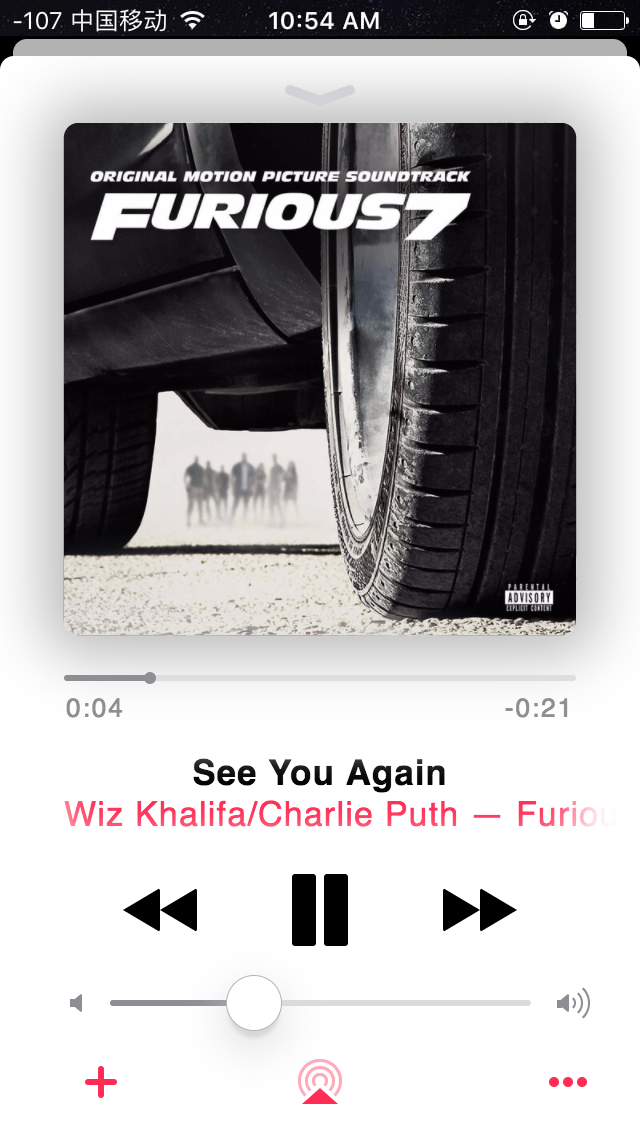
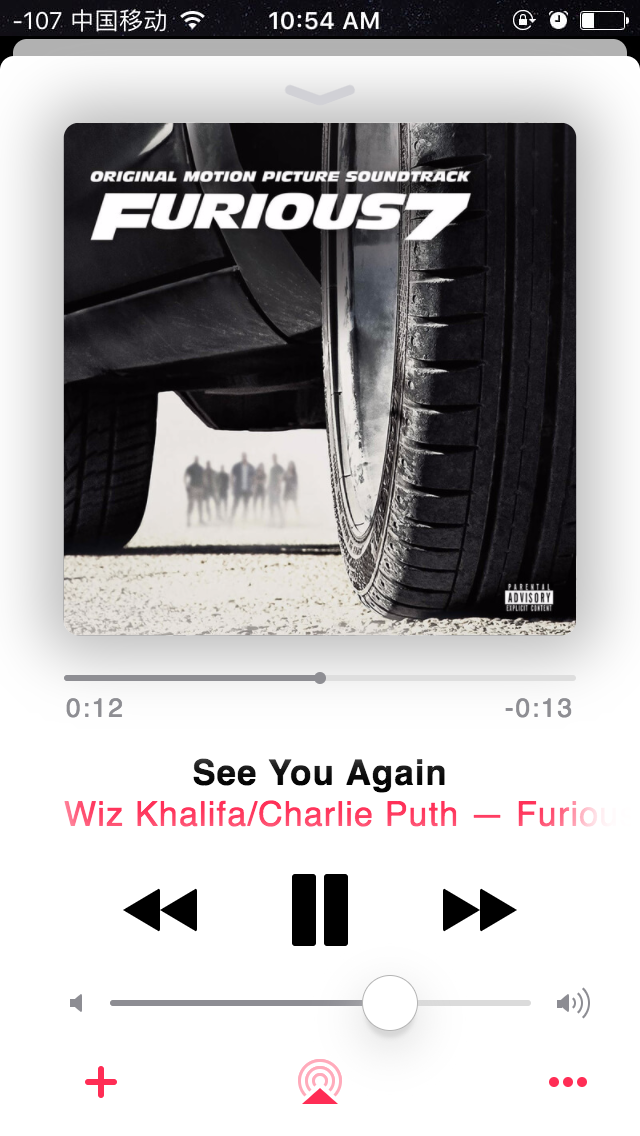
prevent music end time is not int, timeline remove transition

diff --git a/css/main.css b/css/main.css
@@ -1,2 +1,2 @@
-*{margin:0;padding:0;-moz-box-sizing:border-box;-webkit-box-sizing:border-box;box-sizing:border-box;-webkit-tap-highlight-color:transparent;tap-highlight-color:transparent;-moz-user-select:-moz-none;-ms-user-select:none;-webkit-user-select:none;user-select:none}ul{list-style:none}html,body,.apple-music,.show,.timeline .line .played,.info:after,.controls .up,.controls .down,.volumes .progress{width:100%;height:100%}.clearfix:after{content:'';display:table;width:0;height:0;clear:both}html,body{background:#000;overflow:hidden;font-family:Helvetica}.apple-music{text-align:center}.status{width:100%;height:39px;background:url("../img/status.jpg") 50% 0 no-repeat}.under{width:100%;height:17px}.under .inner{display:inline-block;width:614px;height:100%;background:#b1b1b1;border-radius:14px 14px 0 0}.show{background:#FFF;border-radius:14px 14px 0 0;padding-top:29px}.show .arr-down{width:74px;height:22px;margin:0 auto;position:relative;z-index:2}.show .arr-down:before,.show .arr-down:after{content:'';display:inline-block;width:40px;height:10px;border-radius:10px;background:#d1d1d6;position:absolute;bottom:0;-moz-transition:all .2s ease;-o-transition:all .2s ease;-webkit-transition:all .2s ease;transition:all .2s ease}.show .arr-down:before{left:0;-moz-transform-origin:100% 50%;-ms-transform-origin:100% 50%;-webkit-transform-origin:100% 50%;transform-origin:100% 50%;-moz-transform:rotate3d(0, 0, 1, 20deg);-webkit-transform:rotate3d(0, 0, 1, 20deg);transform:rotate3d(0, 0, 1, 20deg)}.show .arr-down:after{right:0;-moz-transform-origin:0 50%;-ms-transform-origin:0 50%;-webkit-transform-origin:0 50%;transform-origin:0 50%;-moz-transform:rotate3d(0, 0, 1, -20deg);-webkit-transform:rotate3d(0, 0, 1, -20deg);transform:rotate3d(0, 0, 1, -20deg)}.show .arr-ping:before{-moz-transform:rotate3d(0, 0, 0, 0);-webkit-transform:rotate3d(0, 0, 0, 0);transform:rotate3d(0, 0, 0, 0)}.show .arr-ping:after{-moz-transform:rotate3d(0, 0, 0, 0);-webkit-transform:rotate3d(0, 0, 0, 0);transform:rotate3d(0, 0, 0, 0)}.album{width:410px;height:410px;margin:67px auto 0;background:url("../img/album.jpg") 50% 50% no-repeat;background-size:100% 100%;-moz-transform-origin:50% 50%;-ms-transform-origin:50% 50%;-webkit-transform-origin:50% 50%;transform-origin:50% 50%;will-change:transform;border-radius:12px;-moz-transform:scale(1, 1);-ms-transform:scale(1, 1);-webkit-transform:scale(1, 1);transform:scale(1, 1);-moz-transition:all .4s ease;-o-transition:all .4s ease;-webkit-transition:all .4s ease;transition:all .4s ease}.album-big{-moz-transform:scale(1.25, 1.25);-ms-transform:scale(1.25, 1.25);-webkit-transform:scale(1.25, 1.25);transform:scale(1.25, 1.25);-moz-transition:all .7s cubic-bezier(0.18, 0.89, 0.32, 1.28);-o-transition:all .7s cubic-bezier(0.18, 0.89, 0.32, 1.28);-webkit-transition:all .7s cubic-bezier(0.18, 0.89, 0.32, 1.28);transition:all .7s cubic-bezier(0.18, 0.89, 0.32, 1.28);-moz-box-shadow:0 0 80px 16px #b9b9b9;-webkit-box-shadow:0 0 80px 16px #b9b9b9;box-shadow:0 0 80px 16px #b9b9b9}.album-pause-up{-moz-transform:translate3d(0, -30px, 0);-webkit-transform:translate3d(0, -30px, 0);transform:translate3d(0, -30px, 0);-moz-transition:all .4s ease;-o-transition:all .4s ease;-webkit-transition:all .4s ease;transition:all .4s ease}.album-play-up{-moz-transform:scale(1.07) translate3d(0, -30px, 0);-ms-transform:scale(1.07) translate3d(0, -30px, 0);-webkit-transform:scale(1.07) translate3d(0, -30px, 0);transform:scale(1.07) translate3d(0, -30px, 0);-moz-transition:all .4s ease;-o-transition:all .4s ease;-webkit-transition:all .4s ease;transition:all .4s ease}.timeline{width:512px;height:auto;margin:91px auto 0;z-index:2}.timeline .line{width:100%;height:6px;background-color:#dedede;border-radius:6px;position:relative}.timeline .line .played{position:absolute;top:0;left:0;background-color:#8e8e93;border-radius:6px;width:0;-moz-transition:all .3s ease;-o-transition:all .3s ease;-webkit-transition:all .3s ease;transition:all .3s ease}.timeline .line .played-color{background-color:#ff2d55}.timeline .line .indicator{display:inline-block;width:12px;height:12px;background-color:#8e8e93;position:absolute;top:-3px;left:0;border-radius:50%;-moz-transform-origin:50% 50%;-ms-transform-origin:50% 50%;-webkit-transform-origin:50% 50%;transform-origin:50% 50%;-moz-transition:all .3s ease;-o-transition:all .3s ease;-webkit-transition:all .3s ease;transition:all .3s ease;border:1px solid transparent}.timeline .line .indicator-big{background-color:#ff2d55;-moz-transition:all .4s cubic-bezier(0.18, 0.89, 0.32, 1.28);-o-transition:all .4s cubic-bezier(0.18, 0.89, 0.32, 1.28);-webkit-transition:all .4s cubic-bezier(0.18, 0.89, 0.32, 1.28);transition:all .4s cubic-bezier(0.18, 0.89, 0.32, 1.28);-moz-transform:scale(4.66667, 4.66667);-ms-transform:scale(4.66667, 4.66667);-webkit-transform:scale(4.66667, 4.66667);transform:scale(4.66667, 4.66667);border-color:#FFF}.timeline .time{width:100%;height:30px;position:relative;margin-top:12px}.timeline .time span{position:absolute;top:0;height:30px;color:#8e8e93;letter-spacing:2px;font-size:26px;-moz-transition:all .3s ease;-o-transition:all .3s ease;-webkit-transition:all .3s ease;transition:all .3s ease}.timeline .time .play{left:2px;width:60px;text-align:left}.timeline .time .rest{right:2px;width:70px;text-align:right}.timeline .time .play-down,.timeline .time .rest-down{-moz-transform:translate3d(0, 16px, 0);-webkit-transform:translate3d(0, 16px, 0);transform:translate3d(0, 16px, 0);color:#ff2d55}.timeline .time .play-color,.timeline .time .rest-color{color:#ff2d55}.info{margin:30px auto 0;position:relative}.info:after{content:'';display:block;position:absolute;height:113px;top:-16px;left:0;-moz-box-shadow:#fff -64px 0 64px 0 inset,#fff 60px 0 64px 0 inset;-webkit-box-shadow:#fff -64px 0 64px 0 inset,#fff 60px 0 64px 0 inset;box-shadow:#fff -64px 0 64px 0 inset,#fff 60px 0 64px 0 inset}.info .name{font-size:35px;font-weight:600;letter-spacing:1px}.info .scroller{padding:0 64px}.info .desc{font-size:34px;font-weight:400;color:#ff2d55;letter-spacing:1.2px;margin-top:2px;white-space:nowrap;will-change:transform}.controls{width:394px;height:72px;margin:40px auto 0;position:relative}.controls span{display:inline-block;-moz-transform-origin:50% 50%;-ms-transform-origin:50% 50%;-webkit-transform-origin:50% 50%;transform-origin:50% 50%}.controls .up{position:relative;z-index:2}.controls .pp{position:relative;width:64px;height:72px}.controls .pp:before,.controls .pp:after{content:'';display:inline-block;position:absolute;top:0;left:9px;border-radius:3px;border-top:36px solid transparent;border-right:64px solid transparent;border-bottom:36px solid transparent;border-left:64px solid #000}.controls .pp-play{width:56px}.controls .pp-play:before,.controls .pp-play:after{left:0;border:0;width:24px;height:72px;background:#000}.controls .pp-play:after{left:32px}.controls .prev,.controls .next{position:absolute;top:14px;width:74px;height:44px}.controls .prev:before,.controls .prev:after,.controls .next:before,.controls .next:after{content:'';display:inline-block;position:absolute;top:0;border-radius:3px;border-top:22px solid transparent;border-right:37px solid transparent;border-bottom:22px solid transparent;border-left:37px solid transparent}.controls .prev{left:0}.controls .prev:before,.controls .prev:after{border-right-color:#000}.controls .prev:before{left:-37px}.controls .prev:after{left:0}.controls .next{right:0}.controls .next:before,.controls .next:after{border-left-color:#000}.controls .next:after{right:0}.controls .down{position:absolute;top:0;left:0;z-index:1}.controls .down span{background:#e5e5e5;border-radius:50%;width:120px;height:120px;opacity:0;-moz-transition:all .3s ease;-o-transition:all .3s ease;-webkit-transition:all .3s ease;transition:all .3s ease}.controls .prev-bg,.controls .next-bg{position:absolute;top:-24px}.controls .prev-bg{left:-18px}.controls .pp-bg{position:relative;top:-24px}.controls .next-bg{right:-18px}.volumes{width:421px;height:6px;background:#dbdbdb;margin:54px auto 0;border-radius:6px;position:relative}.volumes .progress{position:absolute;top:0;left:0;background:#8d8d93;border-radius:6px;width:210.5px}.volumes .v-indicator{display:inline-block;width:56px;height:56px;background:#fff;border-radius:50%;position:absolute;top:-25px;left:182.5px;border:1px solid #b4b4b4;-moz-box-shadow:#d7d7d7 0 10px 6px -3px,#d7d7d7 0 16px 80px 0;-webkit-box-shadow:#d7d7d7 0 10px 6px -3px,#d7d7d7 0 16px 80px 0;box-shadow:#d7d7d7 0 10px 6px -3px,#d7d7d7 0 16px 80px 0}.volumes .v-low,.volumes .v-high{display:inline-block;position:absolute}.volumes .v-low:before,.volumes .v-low:after,.volumes .v-high:before,.volumes .v-high:after{content:'';display:inline-block;position:absolute;left:0;z-index:2}.volumes .v-low:before,.volumes .v-high:before{width:5px;height:8px;background:#8d8d93}.volumes .v-low:after,.volumes .v-high:after{border-top:10px solid transparent;border-right:12px solid #8d8d93;border-bottom:10px solid transparent;border-left:12px solid transparent;border-radius:3px;left:-12px}.volumes .v-low{width:14px;height:20px;left:-40px;top:-7px}.volumes .v-low:before{top:6px}.volumes .v-high{width:33px;height:28px;right:-59px;top:-11px}.volumes .v-high:before{top:11px}.volumes .v-high:after{top:4px}.volumes .v-high i{position:absolute}.volumes .v-high i:before,.volumes .v-high i:after{content:'';width:0;height:0;display:inline-block;position:absolute;border-radius:50%}.volumes .v-high i.wave1{width:44px;height:44px;top:-8px;right:0px}.volumes .v-high i.wave1:before{border:22px solid transparent;border-right-color:#8d8d93;top:0;left:0}.volumes .v-high i.wave1:after{border:19px solid #FFF;top:3px;right:2px}.volumes .v-high i.wave2{width:30px;height:30px;top:-1px;right:7px}.volumes .v-high i.wave2:before{border:15px solid transparent;border-right-color:#8d8d93;top:0;left:0}.volumes .v-high i.wave2:after{border:12px solid #FFF;top:3px;right:2px}.volumes .v-high i.wave3{width:16px;height:16px;top:6px;right:14px}.volumes .v-high i.wave3:before{border:8px solid transparent;border-right-color:#8d8d93;top:0;left:0}.volumes .v-high i.wave3:after{border:5px solid #FFF;top:3px;right:2px}.speaker{width:44px;height:45px;margin:53px auto 0;position:relative}.speaker:after{content:'';width:0;height:0;border-top:16px solid transparent;border-right:18px solid transparent;border-bottom:16px solid #ff2d55;border-left:18px solid transparent;position:absolute;bottom:0;left:4px}.speaker span{position:absolute}.speaker span:before,.speaker span:after{content:'';width:0;height:0;display:inline-block;position:absolute;border-radius:50%}.speaker span.wave1{width:44px;height:44px;top:0px;left:0px}.speaker span.wave1:before{border:22px solid #ffabbb;border-bottom-color:transparent;top:0;left:0}.speaker span.wave1:after{border:19px solid #FFF;top:3px;left:3px}.speaker span.wave2{width:30px;height:30px;top:7px;left:7px}.speaker span.wave2:before{border:15px solid #ffabbb;border-bottom-color:transparent;top:0;left:0}.speaker span.wave2:after{border:12px solid #FFF;top:3px;left:3px}.speaker span.wave3{width:16px;height:16px;top:14px;left:14px}.speaker span.wave3:before{border:8px solid #ffabbb;border-bottom-color:transparent;top:0;left:0}.speaker span.wave3:after{border:5px solid #FFF;top:3px;left:3px}.options{width:534px;height:10px;margin:0 auto;position:relative;top:-27px;padding-left:32px}.options li{display:inline-block}.options .dots{width:10px;height:10px;background:#ff2d55;border-radius:50%;position:relative;float:right;margin-left:4px}.options .add{float:left;width:32px;height:6px;margin-top:2px;border-radius:6px;background-color:#ff2d55;position:relative}.options .add:after{content:'';display:inline-block;width:6px;height:32px;border-radius:6px;background-color:inherit;position:absolute;top:-13px;left:13px}.bg-show-hide{-moz-animation:"bg-show-hide" 0.6s ease;-webkit-animation:"bg-show-hide" 0.6s ease;animation:"bg-show-hide" 0.6s ease}@-moz-keyframes bg-show-hide{0%{opacity:1}100%{opacity:0}}@-webkit-keyframes bg-show-hide{0%{opacity:1}100%{opacity:0}}@keyframes bg-show-hide{0%{opacity:1}100%{opacity:0}}.down-up{-moz-animation:"down-up" 0.6s ease;-webkit-animation:"down-up" 0.6s ease;animation:"down-up" 0.6s ease}@-moz-keyframes down-up{0%{-moz-transform:scale(.88, .88);transform:scale(.88, .88)}100%{-moz-transform:scale(1, 1);transform:scale(1, 1)}}@-webkit-keyframes down-up{0%{-webkit-transform:scale(.88, .88);transform:scale(.88, .88)}100%{-webkit-transform:scale(1, 1);transform:scale(1, 1)}}@keyframes down-up{0%{-moz-transform:scale(.88, .88);-ms-transform:scale(.88, .88);-webkit-transform:scale(.88, .88);transform:scale(.88, .88)}100%{-moz-transform:scale(1, 1);-ms-transform:scale(1, 1);-webkit-transform:scale(1, 1);transform:scale(1, 1)}}
+*{margin:0;padding:0;-moz-box-sizing:border-box;-webkit-box-sizing:border-box;box-sizing:border-box;-webkit-tap-highlight-color:transparent;tap-highlight-color:transparent;-moz-user-select:-moz-none;-ms-user-select:none;-webkit-user-select:none;user-select:none}ul{list-style:none}html,body,.apple-music,.show,.timeline .line .played,.info:after,.controls .up,.controls .down,.volumes .progress{width:100%;height:100%}.clearfix:after{content:'';display:table;width:0;height:0;clear:both}html,body{background:#000;overflow:hidden;font-family:Helvetica}.apple-music{text-align:center}.status{width:100%;height:39px;background:url("../img/status.jpg") 50% 0 no-repeat}.under{width:100%;height:17px}.under .inner{display:inline-block;width:614px;height:100%;background:#b1b1b1;border-radius:14px 14px 0 0}.show{background:#FFF;border-radius:14px 14px 0 0;padding-top:29px}.show .arr-down{width:74px;height:22px;margin:0 auto;position:relative;z-index:2}.show .arr-down:before,.show .arr-down:after{content:'';display:inline-block;width:40px;height:10px;border-radius:10px;background:#d1d1d6;position:absolute;bottom:0;-moz-transition:all .2s ease;-o-transition:all .2s ease;-webkit-transition:all .2s ease;transition:all .2s ease}.show .arr-down:before{left:0;-moz-transform-origin:100% 50%;-ms-transform-origin:100% 50%;-webkit-transform-origin:100% 50%;transform-origin:100% 50%;-moz-transform:rotate3d(0, 0, 1, 20deg);-webkit-transform:rotate3d(0, 0, 1, 20deg);transform:rotate3d(0, 0, 1, 20deg)}.show .arr-down:after{right:0;-moz-transform-origin:0 50%;-ms-transform-origin:0 50%;-webkit-transform-origin:0 50%;transform-origin:0 50%;-moz-transform:rotate3d(0, 0, 1, -20deg);-webkit-transform:rotate3d(0, 0, 1, -20deg);transform:rotate3d(0, 0, 1, -20deg)}.show .arr-ping:before{-moz-transform:rotate3d(0, 0, 0, 0);-webkit-transform:rotate3d(0, 0, 0, 0);transform:rotate3d(0, 0, 0, 0)}.show .arr-ping:after{-moz-transform:rotate3d(0, 0, 0, 0);-webkit-transform:rotate3d(0, 0, 0, 0);transform:rotate3d(0, 0, 0, 0)}.album{width:410px;height:410px;margin:67px auto 0;background:url("../img/album.jpg") 50% 50% no-repeat;background-size:100% 100%;-moz-transform-origin:50% 50%;-ms-transform-origin:50% 50%;-webkit-transform-origin:50% 50%;transform-origin:50% 50%;will-change:transform;border-radius:12px;-moz-transform:scale(1, 1);-ms-transform:scale(1, 1);-webkit-transform:scale(1, 1);transform:scale(1, 1);-moz-transition:all .4s ease;-o-transition:all .4s ease;-webkit-transition:all .4s ease;transition:all .4s ease}.album-big{-moz-transform:scale(1.25, 1.25);-ms-transform:scale(1.25, 1.25);-webkit-transform:scale(1.25, 1.25);transform:scale(1.25, 1.25);-moz-transition:all .7s cubic-bezier(0.18, 0.89, 0.32, 1.28);-o-transition:all .7s cubic-bezier(0.18, 0.89, 0.32, 1.28);-webkit-transition:all .7s cubic-bezier(0.18, 0.89, 0.32, 1.28);transition:all .7s cubic-bezier(0.18, 0.89, 0.32, 1.28);-moz-box-shadow:0 0 80px 16px #b9b9b9;-webkit-box-shadow:0 0 80px 16px #b9b9b9;box-shadow:0 0 80px 16px #b9b9b9}.album-pause-up{-moz-transform:translate3d(0, -30px, 0);-webkit-transform:translate3d(0, -30px, 0);transform:translate3d(0, -30px, 0);-moz-transition:all .4s ease;-o-transition:all .4s ease;-webkit-transition:all .4s ease;transition:all .4s ease}.album-play-up{-moz-transform:scale(1.07) translate3d(0, -30px, 0);-ms-transform:scale(1.07) translate3d(0, -30px, 0);-webkit-transform:scale(1.07) translate3d(0, -30px, 0);transform:scale(1.07) translate3d(0, -30px, 0);-moz-transition:all .4s ease;-o-transition:all .4s ease;-webkit-transition:all .4s ease;transition:all .4s ease}.timeline{width:512px;height:auto;margin:91px auto 0;z-index:2}.timeline .line{width:100%;height:6px;background-color:#dedede;border-radius:6px;position:relative}.timeline .line .played{position:absolute;top:0;left:0;background-color:#8e8e93;border-radius:6px;width:0}.timeline .line .played-color{background-color:#ff2d55}.timeline .line .indicator{display:inline-block;width:12px;height:12px;background-color:#8e8e93;position:absolute;top:-3px;left:0;border-radius:50%;-moz-transform-origin:50% 50%;-ms-transform-origin:50% 50%;-webkit-transform-origin:50% 50%;transform-origin:50% 50%;border:1px solid transparent}.timeline .line .indicator-big{background-color:#ff2d55;-moz-transition:all .4s cubic-bezier(0.18, 0.89, 0.32, 1.28);-o-transition:all .4s cubic-bezier(0.18, 0.89, 0.32, 1.28);-webkit-transition:all .4s cubic-bezier(0.18, 0.89, 0.32, 1.28);transition:all .4s cubic-bezier(0.18, 0.89, 0.32, 1.28);-moz-transform:scale(4.66667, 4.66667);-ms-transform:scale(4.66667, 4.66667);-webkit-transform:scale(4.66667, 4.66667);transform:scale(4.66667, 4.66667);border-color:#FFF}.timeline .time{width:100%;height:30px;position:relative;margin-top:12px}.timeline .time span{position:absolute;top:0;height:30px;color:#8e8e93;letter-spacing:2px;font-size:26px;-moz-transition:all .3s ease;-o-transition:all .3s ease;-webkit-transition:all .3s ease;transition:all .3s ease}.timeline .time .play{left:2px;width:60px;text-align:left}.timeline .time .rest{right:2px;width:70px;text-align:right}.timeline .time .play-down,.timeline .time .rest-down{-moz-transform:translate3d(0, 16px, 0);-webkit-transform:translate3d(0, 16px, 0);transform:translate3d(0, 16px, 0);color:#ff2d55}.timeline .time .play-color,.timeline .time .rest-color{color:#ff2d55}.info{margin:30px auto 0;position:relative}.info:after{content:'';display:block;position:absolute;height:113px;top:-16px;left:0;-moz-box-shadow:#fff -64px 0 64px 0 inset,#fff 60px 0 64px 0 inset;-webkit-box-shadow:#fff -64px 0 64px 0 inset,#fff 60px 0 64px 0 inset;box-shadow:#fff -64px 0 64px 0 inset,#fff 60px 0 64px 0 inset}.info .name{font-size:35px;font-weight:600;letter-spacing:1px}.info .scroller{padding:0 64px}.info .desc{font-size:34px;font-weight:400;color:#ff2d55;letter-spacing:1.2px;margin-top:2px;white-space:nowrap;will-change:transform}.controls{width:394px;height:72px;margin:40px auto 0;position:relative}.controls span{display:inline-block;-moz-transform-origin:50% 50%;-ms-transform-origin:50% 50%;-webkit-transform-origin:50% 50%;transform-origin:50% 50%}.controls .up{position:relative;z-index:2}.controls .pp{position:relative;width:64px;height:72px}.controls .pp:before,.controls .pp:after{content:'';display:inline-block;position:absolute;top:0;left:9px;border-radius:3px;border-top:36px solid transparent;border-right:64px solid transparent;border-bottom:36px solid transparent;border-left:64px solid #000}.controls .pp-play{width:56px}.controls .pp-play:before,.controls .pp-play:after{left:0;border:0;width:24px;height:72px;background:#000}.controls .pp-play:after{left:32px}.controls .prev,.controls .next{position:absolute;top:14px;width:74px;height:44px}.controls .prev:before,.controls .prev:after,.controls .next:before,.controls .next:after{content:'';display:inline-block;position:absolute;top:0;border-radius:3px;border-top:22px solid transparent;border-right:37px solid transparent;border-bottom:22px solid transparent;border-left:37px solid transparent}.controls .prev{left:0}.controls .prev:before,.controls .prev:after{border-right-color:#000}.controls .prev:before{left:-37px}.controls .prev:after{left:0}.controls .next{right:0}.controls .next:before,.controls .next:after{border-left-color:#000}.controls .next:after{right:0}.controls .down{position:absolute;top:0;left:0;z-index:1}.controls .down span{background:#e5e5e5;border-radius:50%;width:120px;height:120px;opacity:0;-moz-transition:all .3s ease;-o-transition:all .3s ease;-webkit-transition:all .3s ease;transition:all .3s ease}.controls .prev-bg,.controls .next-bg{position:absolute;top:-24px}.controls .prev-bg{left:-18px}.controls .pp-bg{position:relative;top:-24px}.controls .next-bg{right:-18px}.volumes{width:421px;height:6px;background:#dbdbdb;margin:54px auto 0;border-radius:6px;position:relative}.volumes .progress{position:absolute;top:0;left:0;background:#8d8d93;border-radius:6px;width:210.5px}.volumes .v-indicator{display:inline-block;width:56px;height:56px;background:#fff;border-radius:50%;position:absolute;top:-25px;left:182.5px;border:1px solid #b4b4b4;-moz-box-shadow:#d7d7d7 0 10px 6px -3px,#d7d7d7 0 16px 80px 0;-webkit-box-shadow:#d7d7d7 0 10px 6px -3px,#d7d7d7 0 16px 80px 0;box-shadow:#d7d7d7 0 10px 6px -3px,#d7d7d7 0 16px 80px 0}.volumes .v-low,.volumes .v-high{display:inline-block;position:absolute}.volumes .v-low:before,.volumes .v-low:after,.volumes .v-high:before,.volumes .v-high:after{content:'';display:inline-block;position:absolute;left:0;z-index:2}.volumes .v-low:before,.volumes .v-high:before{width:5px;height:8px;background:#8d8d93}.volumes .v-low:after,.volumes .v-high:after{border-top:10px solid transparent;border-right:12px solid #8d8d93;border-bottom:10px solid transparent;border-left:12px solid transparent;border-radius:3px;left:-12px}.volumes .v-low{width:14px;height:20px;left:-40px;top:-7px}.volumes .v-low:before{top:6px}.volumes .v-high{width:33px;height:28px;right:-59px;top:-11px}.volumes .v-high:before{top:11px}.volumes .v-high:after{top:4px}.volumes .v-high i{position:absolute}.volumes .v-high i:before,.volumes .v-high i:after{content:'';width:0;height:0;display:inline-block;position:absolute;border-radius:50%}.volumes .v-high i.wave1{width:44px;height:44px;top:-8px;right:0px}.volumes .v-high i.wave1:before{border:22px solid transparent;border-right-color:#8d8d93;top:0;left:0}.volumes .v-high i.wave1:after{border:19px solid #FFF;top:3px;right:2px}.volumes .v-high i.wave2{width:30px;height:30px;top:-1px;right:7px}.volumes .v-high i.wave2:before{border:15px solid transparent;border-right-color:#8d8d93;top:0;left:0}.volumes .v-high i.wave2:after{border:12px solid #FFF;top:3px;right:2px}.volumes .v-high i.wave3{width:16px;height:16px;top:6px;right:14px}.volumes .v-high i.wave3:before{border:8px solid transparent;border-right-color:#8d8d93;top:0;left:0}.volumes .v-high i.wave3:after{border:5px solid #FFF;top:3px;right:2px}.speaker{width:44px;height:45px;margin:53px auto 0;position:relative}.speaker:after{content:'';width:0;height:0;border-top:16px solid transparent;border-right:18px solid transparent;border-bottom:16px solid #ff2d55;border-left:18px solid transparent;position:absolute;bottom:0;left:4px}.speaker span{position:absolute}.speaker span:before,.speaker span:after{content:'';width:0;height:0;display:inline-block;position:absolute;border-radius:50%}.speaker span.wave1{width:44px;height:44px;top:0px;left:0px}.speaker span.wave1:before{border:22px solid #ffabbb;border-bottom-color:transparent;top:0;left:0}.speaker span.wave1:after{border:19px solid #FFF;top:3px;left:3px}.speaker span.wave2{width:30px;height:30px;top:7px;left:7px}.speaker span.wave2:before{border:15px solid #ffabbb;border-bottom-color:transparent;top:0;left:0}.speaker span.wave2:after{border:12px solid #FFF;top:3px;left:3px}.speaker span.wave3{width:16px;height:16px;top:14px;left:14px}.speaker span.wave3:before{border:8px solid #ffabbb;border-bottom-color:transparent;top:0;left:0}.speaker span.wave3:after{border:5px solid #FFF;top:3px;left:3px}.options{width:534px;height:10px;margin:0 auto;position:relative;top:-27px;padding-left:32px}.options li{display:inline-block}.options .dots{width:10px;height:10px;background:#ff2d55;border-radius:50%;position:relative;float:right;margin-left:4px}.options .add{float:left;width:32px;height:6px;margin-top:2px;border-radius:6px;background-color:#ff2d55;position:relative}.options .add:after{content:'';display:inline-block;width:6px;height:32px;border-radius:6px;background-color:inherit;position:absolute;top:-13px;left:13px}.bg-show-hide{-moz-animation:"bg-show-hide" 0.6s ease;-webkit-animation:"bg-show-hide" 0.6s ease;animation:"bg-show-hide" 0.6s ease}@-moz-keyframes bg-show-hide{0%{opacity:1}100%{opacity:0}}@-webkit-keyframes bg-show-hide{0%{opacity:1}100%{opacity:0}}@keyframes bg-show-hide{0%{opacity:1}100%{opacity:0}}.down-up{-moz-animation:"down-up" 0.6s ease;-webkit-animation:"down-up" 0.6s ease;animation:"down-up" 0.6s ease}@-moz-keyframes down-up{0%{-moz-transform:scale(.88, .88);transform:scale(.88, .88)}100%{-moz-transform:scale(1, 1);transform:scale(1, 1)}}@-webkit-keyframes down-up{0%{-webkit-transform:scale(.88, .88);transform:scale(.88, .88)}100%{-webkit-transform:scale(1, 1);transform:scale(1, 1)}}@keyframes down-up{0%{-moz-transform:scale(.88, .88);-ms-transform:scale(.88, .88);-webkit-transform:scale(.88, .88);transform:scale(.88, .88)}100%{-moz-transform:scale(1, 1);-ms-transform:scale(1, 1);-webkit-transform:scale(1, 1);transform:scale(1, 1)}}
 /*# sourceMappingURL=main.css.map */

diff --git a/js/util.js b/js/util.js
@@ -184,7 +184,8 @@
 			html5: true,
 			preload : true,
 			onload: function() {
-				_s.rest.text('-' + _s.formatTime(Math.round(_s.sound.duration())));
+				_s.duration = _s.sound.duration();
+				_s.rest.text('-' + _s.formatTime(Math.round(_s.duration)));
 				_s.sound.volume(0.5);
 			},
 			onplay: function() {
@@ -208,9 +209,9 @@
 			allWidth = _s.timeline.width(),
 			halfWidth = _s.timeIndicator.width() / 2,
 			indicatorWidth = allWidth - halfWidth;
-		var percent = seek / _s.sound.duration(),
+		var percent = seek / _s.duration,
 			playedTime = _s.formatTime(Math.round(seek)),
-			restTime = _s.restTime(playedTime, Math.round(_s.sound.duration()));
+			restTime = _s.restTime(playedTime, Math.round(_s.duration));
 		
 		_s.play.text(playedTime);
 		_s.rest.text('-' + restTime);
@@ -236,7 +237,7 @@
 	SYY.resetPlay = function() {
 		// 重置时间显示
 		this.play.text('0:00');
-		this.rest.text('-' + this.formatTime(this.sound.duration()));
+		this.rest.text('-' + this.formatTime(Math.round(this.duration)));
 		// 重置时间进度条
 		this.timeIndicator.css({left: 0});
 		this.played.width(0);

diff --git a/sass/_timeline.scss b/sass/_timeline.scss
@@ -17,7 +17,7 @@
 			background-color: #8e8e93;
 			border-radius: 6px;
 			width: 0;
-			@include single-transition(all, $time+-.1s, ease);
+			// @include single-transition(all, $time+-.1s, ease);
 		}
 		.played-color {
 			background-color: $red;
@@ -32,7 +32,7 @@
 			left: 0;
 			border-radius: 50%;
 			@include transform-origin(50%, 50%);
-			@include single-transition(all, $time+-.1s, ease);
+			// @include single-transition(all, $time+-.1s, ease);
 			border: 1px solid transparent;
 		}
 		.indicator-big {
